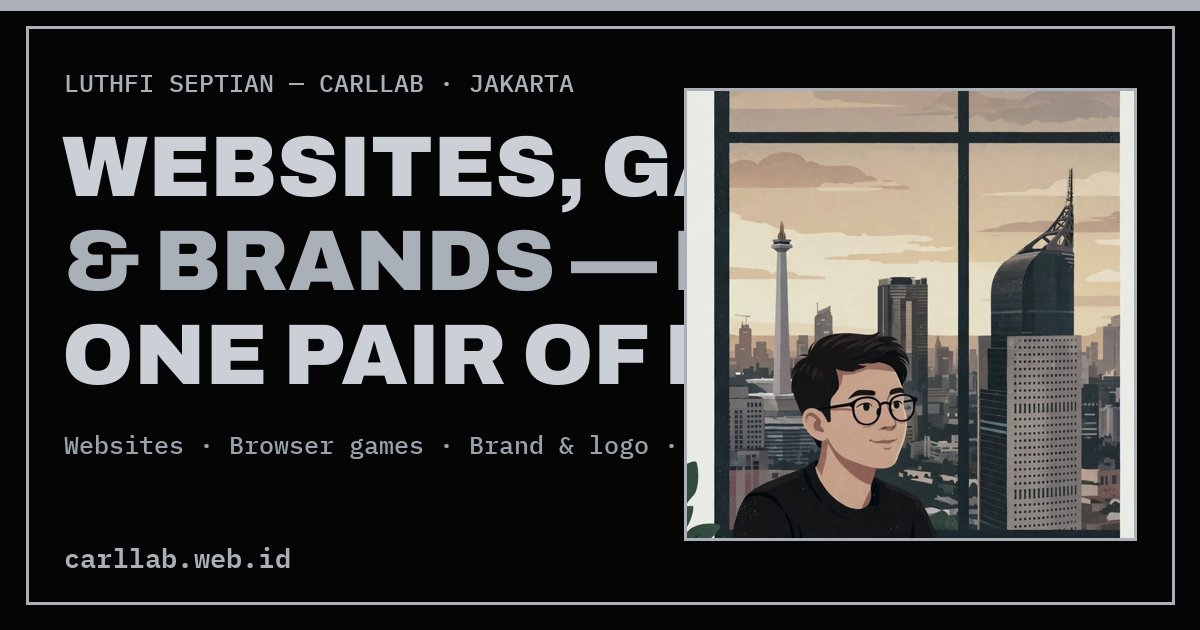
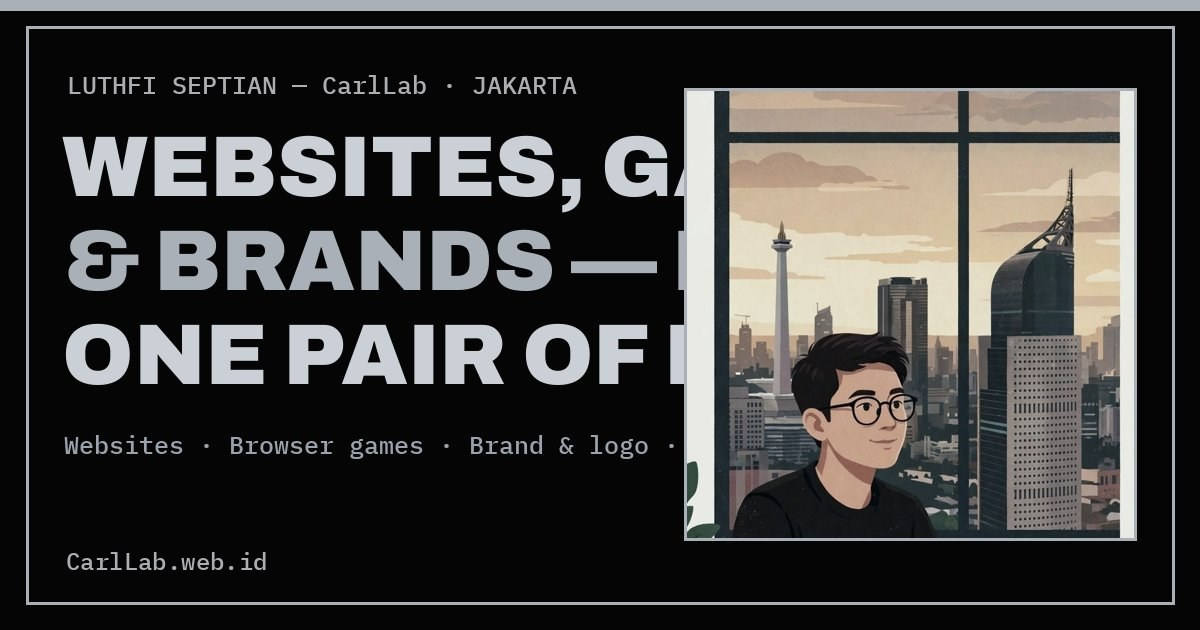
Cleanup round: remove build log, workshop board, footer clock/coords/signature, stats strip; CarlLab case in OG image

Changed region(s): [[0.0308, 0.1206, 0.4933, 0.1508], [0.0617, 0.8746, 0.2467, 0.9048]]

diff --git a/index.html b/index.html
@@ -166,7 +166,6 @@ footer.site{background:var(--ink);color:var(--paper);padding:clamp(56px,7vw,90px
 .foot-grid a{display:block;color:#D7DFD8;text-decoration:none;padding:4px 0;font-size:15.5px;transition:color .18s}
 .foot-grid a:hover{color:#A9C3EE}
 .foot-brand p{color:#A9B6AB;font-size:15.5px;max-width:24em;margin-top:12px}
-.foot-clock{font-family:"Space Mono",monospace;font-size:15px;color:#D7DFD8}
 .foot-word{font-family:"Archivo",sans-serif;font-weight:900;font-size:clamp(64px,14.5vw,208px);line-height:.82;letter-spacing:-.02em;color:var(--paper);border-top:1px solid #33453A;padding-top:26px}
 .foot-base{display:flex;justify-content:space-between;gap:16px;flex-wrap:wrap;margin-top:22px;font-family:"Space Mono",monospace;font-size:12px;color:#8B9A8E;letter-spacing:.05em}
 /* ---------- reveals (JS-only pre-states) ---------- */
@@ -280,9 +279,6 @@ details.faq summary .pm{color:var(--amber)}
 #about .about-points>div{border-color:rgba(255,255,255,.45)}
 #about .apoint h4{color:#fff}
 #about .apoint p{color:#C9DBF7}
-.stats{display:grid;grid-template-columns:repeat(3,1fr);gap:18px;margin-top:46px;border-top:2px solid rgba(255,255,255,.4);padding-top:30px}
-.stat .n{font-family:"Archivo",sans-serif;font-weight:900;font-size:clamp(44px,5.6vw,80px);line-height:1;color:#fff}
-.stat .l{font-family:"Space Mono",monospace;font-size:12px;letter-spacing:.12em;text-transform:uppercase;color:#A9C3EE;margin-top:10px}
 /* Manifesto: line-mask reveal */
 .manifesto{padding:clamp(90px,11vw,150px) 0}
 .manifesto .lm{display:block;overflow:hidden;padding-bottom:.06em;margin-bottom:-.06em}
@@ -409,40 +405,22 @@ html{scrollbar-color:#3A3F45 #050505}
 #order .order-side li{color:#23272C}
 .hero-cap{background:linear-gradient(165deg,#B9C0C8,#9AA3AD 60%,#C9CED4);color:#0B0B0B}
 .foot-word{background:linear-gradient(180deg,#E3E6E9 0%,#AEB4BC 45%,#6E757D 55%,#B9C0C8 100%);-webkit-background-clip:text;background-clip:text;color:transparent}
-.sign path{stroke:#B9C0C8}
-.bdot{background:#B9C0C8}
 </style>
 
 <style id="uniq-round">
 /* ===== UNIQ ROUND 15 Nov 21:59 WIB — identitas khas CarlLab ===== */
 #about,#order{position:relative}
-.board{border-bottom:1px solid var(--lineD);background:#030303}
-.board-in{display:flex;gap:clamp(22px,5vw,76px);flex-wrap:wrap;padding-top:20px;padding-bottom:20px}
-.bcell .bk{display:block;font-family:"Space Mono",monospace;font-size:11px;letter-spacing:.16em;text-transform:uppercase;color:var(--mutd);margin-bottom:6px}
-.bcell .bv{font-size:16.5px;font-weight:600;color:var(--txtd)}
-.bdot{display:inline-block;width:8px;height:8px;border-radius:50%;background:#B9C0C8;margin-right:9px;vertical-align:2px}
 60%{opacity:1;transform:rotate(-7deg) scale(.94)}100%{opacity:.92;transform:rotate(-7deg) scale(1)}}
 .desk{margin-top:46px;max-width:600px}
 .desk[hidden]{display:none!important}
 .desk img{width:100%;display:block;border:2px solid #0B0B0B;box-shadow:8px 8px 0 rgba(0,0,0,.85)}
 .desk figcaption{font-family:"Space Mono",monospace;font-size:12px;color:#55503F;margin-top:12px;letter-spacing:.03em}
-.foot-coords{font-family:"Space Mono",monospace;font-size:12px;color:#9A9AA0;margin-top:10px;letter-spacing:.04em}
-.foot-extra{display:flex;justify-content:space-between;gap:clamp(28px,5vw,64px);flex-wrap:wrap;border-top:1px solid var(--lineD);padding-top:30px;margin-bottom:clamp(40px,5vw,64px)}
-.buildlog h5{font-family:"Space Mono",monospace;font-size:11.5px;letter-spacing:.14em;text-transform:uppercase;color:#8B8B91;margin-bottom:14px}
-.buildlog p{font-family:"Space Mono",monospace;font-size:12.5px;color:#C9C9CE;line-height:1.5;padding:5px 0}
-.signoff{display:flex;flex-direction:column;gap:2px}
-.sign-cap{font-family:"Space Mono",monospace;font-size:11px;letter-spacing:.14em;text-transform:uppercase;color:#8B8B91}
-.sign{display:block;width:200px;height:70px;margin:2px 0 0 -6px}
-.sign path{fill:none;stroke:#B9C0C8;stroke-width:3.4;stroke-linecap:round;stroke-linejoin:round;stroke-dasharray:100;stroke-dashoffset:100;transition:stroke-dashoffset 1s cubic-bezier(.05,.7,.1,1)}
-.sign path.sp2{transition-delay:.35s}.sign path.sp3{transition-delay:.7s;transition-duration:.7s}
-.sign.draw path{stroke-dashoffset:0}
-.sign-name{font-family:"Space Mono",monospace;font-size:12px;color:#C9C9CE;letter-spacing:.05em}
 .egg{position:fixed;bottom:14px;left:0;z-index:1500;pointer-events:none;animation:eggWalk 4.6s linear forwards}
 .egg svg{display:block;animation:eggBob .24s steps(2) infinite alternate}
 @keyframes eggWalk{from{transform:translateX(-70px)}to{transform:translateX(105vw)}}
 @keyframes eggBob{from{transform:translateY(0)}to{transform:translateY(-4px)}}
 @media (max-width:860px){}
-@media (prefers-reduced-motion: reduce){.sign path{stroke-dashoffset:0;transition:none}.egg{display:none}}
+@media (prefers-reduced-motion: reduce){.egg{display:none}}
 </style>
 <style id="perf-round">.mq-off .track{animation-play-state:paused!important}</style>
 <style id="rapih-round">
@@ -527,7 +505,6 @@ form.order{background:linear-gradient(172deg,#E9ECEF 0%,#C9CED4 58%,#B4BAC1 100%
 </section>
 
 <!-- MARQUEE -->
-<div class="board" data-rv="y40"><div class="wrap board-in"><div class="bcell"><span class="bk" data-t="boardNowL">This week in the workshop</span><span class="bv" data-t="boardNow">Rebuilding the CarlLab site — v18</span></div><div class="bcell"><span class="bk" data-t="boardSlotL">Project queue</span><span class="bv"><i class="bdot"></i><span data-t="boardSlot">Next slot open — no queue</span></span></div></div></div>
 <div class="marquee" aria-hidden="true"><div class="track" id="mqTrack"></div></div>
 
 <!-- SERVICES -->
@@ -581,11 +558,6 @@ form.order{background:linear-gradient(172deg,#E9ECEF 0%,#C9CED4 58%,#B4BAC1 100%
     </div>
   </div>
   <div class="wrap">
-    <div class="stats" data-rv="y40">
-      <div class="stat"><div class="n">4</div><div class="l" data-t="st1l">Services offered</div></div>
-      <div class="stat"><div class="n">40</div><div class="l" data-t="st2l">Hours a week available</div></div>
-      <div class="stat"><div class="n">2</div><div class="l" data-t="st3l">Languages — Indonesian &amp; English</div></div>
-    </div>
     <figure class="desk" id="deskFig" hidden><img src="desk.jpg" alt="My work desk in Jakarta Barat"><figcaption data-t="deskCap">My work desk in Jakarta Barat — where every project on this page was built.</figcaption></figure>
   </div>
 </section>
@@ -690,10 +662,8 @@ form.order{background:linear-gradient(172deg,#E9ECEF 0%,#C9CED4 58%,#B4BAC1 100%
       <div class="foot-brand">
         <a class="logo" href="#top" style="color:var(--paper)"><i></i>CarlLab</a>
         <p data-t="footTag">One-person studio of Luthfi Septian — websites, games, brands, and lead systems from Jakarta.</p>
-        <p class="foot-clock" style="margin-top:18px">Jakarta — <span id="jkClock">--:--:--</span> WIB</p>
-        <p class="foot-status"><span class="st-dot" id="stDot"></span><span id="studioStatus">Studio status</span></p>
-        <p class="foot-coords">6.2294° S, 106.6590° E — Joglo, Jakarta Barat</p>
-      </div>
+                <p class="foot-status"><span class="st-dot" id="stDot"></span><span id="studioStatus">Studio status</span></p>
+              </div>
       <div>
         <h5 data-t="footSite">Site</h5>
         <a href="#services" data-t="navServices">Services</a>
@@ -715,12 +685,10 @@ form.order{background:linear-gradient(172deg,#E9ECEF 0%,#C9CED4 58%,#B4BAC1 100%
         <a href="mailto:luthfiseptian1303@gmail.com">luthfiseptian1303@gmail.com</a>
       </div>
     </div>
-    <div class="foot-extra"><div class="buildlog"><h5 data-t="blH">Build log</h5><p data-t="bl1">v18 · 15 Nov 2026 — Rebuilt as a one-person studio; black + chrome theme.</p><p data-t="bl2">v12.7 · 15 Nov 2026 — 3D tower + product video (the previous live version).</p></div><div class="signoff"><span class="sign-cap" data-t="signCap">Built &amp; signed by</span><svg class="sign" viewBox="0 0 240 84" aria-hidden="true"><path class="sp1" pathLength="100" d="M28 68 C40 24 58 10 55 28 C52 44 30 52 24 44 C20 38 34 33 48 36"/><path class="sp2" pathLength="100" d="M118 30 C104 16 84 22 88 36 C92 49 116 46 114 60 C112 74 88 76 80 62"/><path class="sp3" pathLength="100" d="M16 76 C80 88 170 84 228 66"/></svg><span class="sign-name">Luthfi Septian · Founder</span></div></div>
-    <div class="foot-word" data-rv="y40">CarlLab</div>
+        <div class="foot-word" data-rv="y40">CarlLab</div>
     <div class="foot-base">
       <span>© 2026 CarlLab — Luthfi Septian</span>
-      <span data-t="footMade">Designed &amp; built by hand in Jakarta</span>
-    </div>
+          </div>
   </div>
 </footer>
 
@@ -772,13 +740,13 @@ navProcess:"Proses",
 bw1t:"Yang perlu disertakan",bw1p:"Ceritakan bisnismu menjual apa, untuk siapa, dan apa yang sudah kamu punya — logo, foto, situs lama. Kasar juga tidak apa-apa.",
 bw2t:"Yang terjadi sesudahnya",bw2p:"Pesanmu kubaca sendiri, kubalas dengan pertanyaan atau arah pertama, dan kamu menerima penawaran tertulis sebelum ada pekerjaan yang dimulai.",
 bw3t:"Biaya",bw3p:"Setiap proyek diberi harga tertulis begitu ruang lingkupnya jelas, jadi angka yang kamu setujui adalah angka yang kamu bayar.",
-st1l:"Layanan ditawarkan",st2l:"Jam per minggu tersedia",st3l:"Bahasa — Indonesia & Inggris",mf1:"Satu orang.",mf2:"Tanpa perantara.",mf3:"Yang kamu ajak bicara adalah yang membangunnya.",faqEnd:"Masih penasaran? Tulis email saja — saya sendiri yang membalas.",faqEndBtn:"Mulai proyek",skip:"Lewati ke konten",pillTxt:"Pesan →",liveEyebrow:"Produk live",liveTitle:"Satu produk, sudah berjalan",liveSub:"Lead Engine bukan mockup — aplikasi pipeline lead yang benar-benar bekerja, live di situs ini. Buka dan coba data demonya.",liveBtn:"Buka aplikasinya \u2197",boardNowL:"Minggu ini di bengkel",boardNow:"Membangun ulang situs CarlLab — v18",boardSlotL:"Antrian proyek",boardSlot:"Slot berikutnya terbuka — tanpa antrian",blH:"Catatan pembangunan",bl1:"v18 · 15 Nov 2026 — Dibangun ulang jadi studio satu orang; tema hitam + chrome.",bl2:"v12.7 · 15 Nov 2026 — Menara 3D + video produk (versi live sebelumnya).",deskCap:"Meja kerja saya di Jakarta Barat — tempat semua proyek di halaman ini dibangun.",signCap:"Dibangun & ditandatangani oleh",
+mf1:"Satu orang.",mf2:"Tanpa perantara.",mf3:"Yang kamu ajak bicara adalah yang membangunnya.",faqEnd:"Masih penasaran? Tulis email saja — saya sendiri yang membalas.",faqEndBtn:"Mulai proyek",skip:"Lewati ke konten",pillTxt:"Pesan →",liveEyebrow:"Produk live",liveTitle:"Satu produk, sudah berjalan",liveSub:"Lead Engine bukan mockup — aplikasi pipeline lead yang benar-benar bekerja, live di situs ini. Buka dan coba data demonya.",liveBtn:"Buka aplikasinya \u2197",deskCap:"Meja kerja saya di Jakarta Barat — tempat semua proyek di halaman ini dibangun.",
 ordEyebrow:"Mulai proyek",ordTitle:"Ceritakan yang sedang kamu bangun",
 ordSide:"Satu pesan cukup untuk memulai. Ceritakan bisnismu dan kebutuhanmu — saya balas dengan pertanyaan, penawaran tertulis, dan jadwal. Tanpa kewajiban, tanpa tekanan.",
 ordLi1:"Penawaran tertulis sebelum pekerjaan apa pun dimulai",ordLi2:"Balasan dari orang yang membangunnya",ordLi3:"Bahasa Indonesia atau Inggris — pilihanmu",
 fNameL:"Nama kamu",fContactL:"Email atau WhatsApp",fSvcL:"Kamu butuh apa?",oWeb:"Website",oGame:"Game browser",oBrand:"Brand & logo",oLead:"Sistem lead",oOther:"Hal lain",
 fDetL:"Tentang proyeknya",fDlL:"Tenggat (kalau ada)",fSend:"Kirim lewat email",fNote:"Tombol ini membuka aplikasi email kamu dengan semua sudah terisi — tidak ada yang terkirim sampai kamu menekan kirim di sana.",
-footTag:"Studio satu orang milik Luthfi Septian — website, game, brand, dan sistem lead dari Jakarta.",footSite:"Situs",footSvc:"Layanan",footElse:"Di tempat lain",footMade:"Didesain & dibangun dengan tangan di Jakarta"
+footTag:"Studio satu orang milik Luthfi Septian — website, game, brand, dan sistem lead dari Jakarta.",footSite:"Situs",footSvc:"Layanan",footElse:"Di tempat lain",
 };
 var EN={};
 function curLang(){ try{ return localStorage.getItem(LANG_KEY)==="id" ? "id" : "en"; }catch(e){ return "en"; } }
@@ -837,14 +805,6 @@ document.querySelectorAll("[data-svc]").forEach(function(a){
     var sel=document.getElementById("fService"); if(sel) sel.value=a.getAttribute("data-svc");
   });
 });
-/* ---------- clock ---------- */
-function tick(){
-  try{
-    var t=new Date().toLocaleTimeString("en-GB",{timeZone:"Asia/Jakarta",hour12:false});
-    document.getElementById("jkClock").textContent=t;
-  }catch(e){}
-}
-tick(); setInterval(tick,1000);
 /* ---------- order form -> mailto ---------- */
 document.getElementById("orderForm").addEventListener("submit",function(e){
   e.preventDefault();
@@ -955,7 +915,6 @@ document.getElementById("orderForm").addEventListener("submit",function(e){
     var io = new IntersectionObserver(function(es){ es.forEach(function(en){ if(en.isIntersecting){ en.target.classList.add(cls); io.unobserve(en.target); } }); }, { threshold: .35 });
     els.forEach(function(el){ io.observe(el); });
   }
-  arm(".sign", "draw");
   var logo = document.querySelector(".logo"), lc = 0, lt = 0;
   var EGGSVG = '<svg width="56" height="56" viewBox="0 0 14 14" shape-rendering="crispEdges" aria-hidden="true"><rect x="4" y="0" width="1" height="1" fill="#191919"/><rect x="5" y="0" width="1" height="1" fill="#191919"/><rect x="6" y="0" width="1" height="1" fill="#191919"/><rect x="7" y="0" width="1" height="1" fill="#191919"/><rect x="8" y="0" width="1" height="1" fill="#191919"/><rect x="9" y="0" width="1" height="1" fill="#191919"/><rect x="3" y="1" width="1" height="1" fill="#191919"/><rect x="4" y="1" width="1" height="1" fill="#191919"/><rect x="5" y="1" width="1" height="1" fill="#191919"/><rect x="6" y="1" width="1" height="1" fill="#191919"/><rect x="7" y="1" width="1" height="1" fill="#191919"/><rect x="8" y="1" width="1" height="1" fill="#191919"/><rect x="9" y="1" width="1" height="1" fill="#191919"/><rect x="10" y="1" width="1" height="1" fill="#191919"/><rect x="3" y="2" width="1" height="1" fill="#191919"/><rect x="4" y="2" width="1" height="1" fill="#E8B98A"/><rect x="5" y="2" width="1" height="1" fill="#E8B98A"/><rect x="6" y="2" width="1" height="1" fill="#E8B98A"/><rect x="7" y="2" width="1" height="1" fill="#E8B98A"/><rect x="8" y="2" width="1" height="1" fill="#E8B98A"/><rect x="9" y="2" width="1" height="1" fill="#E8B98A"/><rect x="10" y="2" width="1" height="1" fill="#191919"/><rect x="3" y="3" width="1" height="1" fill="#191919"/><rect x="4" y="3" width="1" height="1" fill="#E8B98A"/><rect x="5" y="3" width="1" height="1" fill="#111111"/><rect x="6" y="3" width="1" height="1" fill="#E8B98A"/><rect x="7" y="3" width="1" height="1" fill="#E8B98A"/><rect x="8" y="3" width="1" height="1" fill="#111111"/><rect x="9" y="3" width="1" height="1" fill="#E8B98A"/><rect x="10" y="3" width="1" height="1" fill="#191919"/><rect x="4" y="4" width="1" height="1" fill="#E8B98A"/><rect x="5" y="4" width="1" height="1" fill="#E8B98A"/><rect x="6" y="4" width="1" height="1" fill="#E8B98A"/><rect x="7" y="4" width="1" height="1" fill="#E8B98A"/><rect x="8" y="4" width="1" height="1" fill="#E8B98A"/><rect x="9" y="4" width="1" height="1" fill="#E8B98A"/><rect x="5" y="5" width="1" height="1" fill="#E8B98A"/><rect x="6" y="5" width="1" height="1" fill="#E8B98A"/><rect x="7" y="5" width="1" height="1" fill="#E8B98A"/><rect x="8" y="5" width="1" height="1" fill="#E8B98A"/><rect x="3" y="6" width="1" height="1" fill="#161616"/><rect x="4" y="6" width="1" height="1" fill="#161616"/><rect x="5" y="6" width="1" height="1" fill="#161616"/><rect x="6" y="6" width="1" height="1" fill="#161616"/><rect x="7" y="6" width="1" height="1" fill="#161616"/><rect x="8" y="6" width="1" height="1" fill="#161616"/><rect x="9" y="6" width="1" height="1" fill="#161616"/><rect x="10" y="6" width="1" height="1" fill="#161616"/><rect x="2" y="7" width="1" height="1" fill="#E8B98A"/><rect x="3" y="7" width="1" height="1" fill="#161616"/><rect x="4" y="7" width="1" height="1" fill="#161616"/><rect x="5" y="7" width="1" height="1" fill="#161616"/><rect x="6" y="7" width="1" height="1" fill="#161616"/><rect x="7" y="7" width="1" height="1" fill="#161616"/><rect x="8" y="7" width="1" height="1" fill="#161616"/><rect x="9" y="7" width="1" height="1" fill="#161616"/><rect x="10" y="7" width="1" height="1" fill="#161616"/><rect x="11" y="7" width="1" height="1" fill="#E8B98A"/><rect x="2" y="8" width="1" height="1" fill="#E8B98A"/><rect x="3" y="8" width="1" height="1" fill="#161616"/><rect x="4" y="8" width="1" height="1" fill="#161616"/><rect x="5" y="8" width="1" height="1" fill="#161616"/><rect x="6" y="8" width="1" height="1" fill="#161616"/><rect x="7" y="8" width="1" height="1" fill="#161616"/><rect x="8" y="8" width="1" height="1" fill="#161616"/><rect x="9" y="8" width="1" height="1" fill="#161616"/><rect x="10" y="8" width="1" height="1" fill="#161616"/><rect x="11" y="8" width="1" height="1" fill="#E8B98A"/><rect x="4" y="9" width="1" height="1" fill="#161616"/><rect x="5" y="9" width="1" height="1" fill="#161616"/><rect x="6" y="9" width="1" height="1" fill="#161616"/><rect x="7" y="9" width="1" height="1" fill="#161616"/><rect x="8" y="9" width="1" height="1" fill="#161616"/><rect x="9" y="9" width="1" height="1" fill="#161616"/><rect x="4" y="10" width="1" height="1" fill="#0E2A5C"/><rect x="5" y="10" width="1" height="1" fill="#0E2A5C"/><rect x="6" y="10" width="1" height="1" fill="#0E2A5C"/><rect x="7" y="10" width="1" height="1" fill="#0E2A5C"/><rect x="8" y="10" width="1" height="1" fill="#0E2A5C"/><rect x="9" y="10" width="1" height="1" fill="#0E2A5C"/><rect x="4" y="11" width="1" height="1" fill="#0E2A5C"/><rect x="5" y="11" width="1" height="1" fill="#0E2A5C"/><rect x="8" y="11" width="1" height="1" fill="#0E2A5C"/><rect x="9" y="11" width="1" height="1" fill="#0E2A5C"/><rect x="4" y="12" width="1" height="1" fill="#0E2A5C"/><rect x="5" y="12" width="1" height="1" fill="#0E2A5C"/><rect x="8" y="12" width="1" height="1" fill="#0E2A5C"/><rect x="9" y="12" width="1" height="1" fill="#0E2A5C"/><rect x="3" y="13" width="1" height="1" fill="#0B0B0B"/><rect x="4" y="13" width="1" height="1" fill="#0B0B0B"/><rect x="5" y="13" width="1" height="1" fill="#0B0B0B"/><rect x="9" y="13" width="1" height="1" fill="#0B0B0B"/><rect x="10" y="13" width="1" height="1" fill="#0B0B0B"/><rect x="11" y="13" width="1" height="1" fill="#0B0B0B"/></svg>';
   function spawnEgg(){
